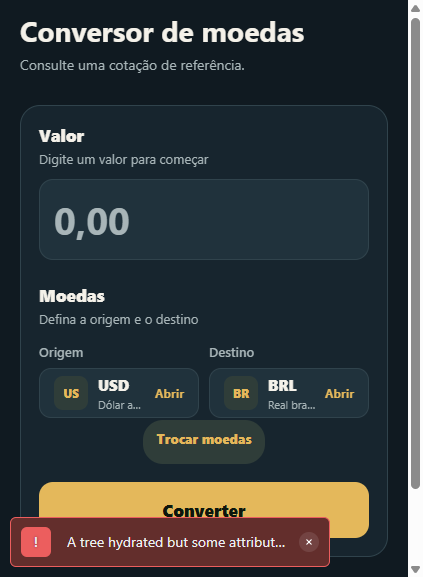
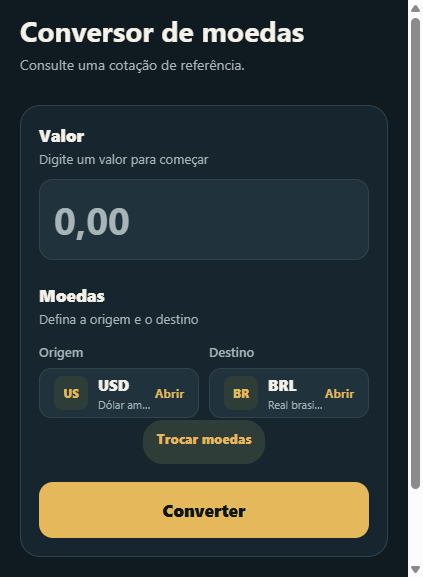
fix: remove aviso de hidratacao

Changed region(s): [[0.0, 0.8735, 0.7991, 0.9983], [0.7376, 0.6863, 0.7683, 0.7175], [0.3073, 0.6863, 0.3381, 0.7175]]

diff --git a/src/views/components/SeletorMoeda.tsx b/src/views/components/SeletorMoeda.tsx
@@ -125,7 +125,7 @@ const styles = StyleSheet.create({
     alignItems: 'center',
     justifyContent: 'space-between',
   },
-  valueContent: { flexDirection: 'row', alignItems: 'center', flex: 1 },
+  valueContent: { flexDirection: 'row', alignItems: 'center', flex: 1, gap: 10 },
   currencyMark: {
     width: 34,
     height: 34,
@@ -133,13 +133,12 @@ const styles = StyleSheet.create({
     backgroundColor: cores.destaqueSuave,
     alignItems: 'center',
     justifyContent: 'center',
-    marginRight: 10,
   },
   currencyMarkText: { color: cores.destaque, fontWeight: '800', fontSize: 12 },
   valueCopy: { flex: 1 },
   valueCode: { color: cores.texto, fontSize: 15, fontWeight: '800' },
   valueName: { color: cores.textoSuave, fontSize: 11, marginTop: 2 },
-  chevron: { color: cores.destaque, fontSize: 12, fontWeight: '700', marginLeft: 8 },
+  chevron: { color: cores.destaque, fontSize: 12, fontWeight: '700' },
   overlay: { flex: 1, backgroundColor: '#000000B8', justifyContent: 'flex-end' },
   modalCard: {
     maxHeight: '80%',
@@ -155,7 +154,7 @@ const styles = StyleSheet.create({
     marginBottom: 10,
   },
   modalTitle: { color: cores.texto, fontSize: 17, fontWeight: '700', flex: 1 },
-  close: { color: cores.destaque, fontWeight: '700', marginLeft: 12 },
+  close: { color: cores.destaque, fontWeight: '700' },
   search: {
     backgroundColor: cores.superficieElevada,
     borderRadius: 12,
@@ -166,7 +165,7 @@ const styles = StyleSheet.create({
   },
   option: { paddingVertical: 10, paddingHorizontal: 8, borderRadius: 10 },
   selectedOption: { backgroundColor: cores.destaqueSuave },
-  optionContent: { flexDirection: 'row', alignItems: 'center' },
+  optionContent: { flexDirection: 'row', alignItems: 'center', gap: 12 },
   codeBadge: {
     width: 40,
     height: 40,
@@ -174,7 +173,6 @@ const styles = StyleSheet.create({
     backgroundColor: cores.destaqueSuave,
     alignItems: 'center',
     justifyContent: 'center',
-    marginRight: 12,
   },
   codeText: { color: cores.destaque, fontWeight: '800' },
   optionCopy: { flex: 1 },

diff --git a/src/views/TelaConversor.tsx b/src/views/TelaConversor.tsx
@@ -156,8 +156,8 @@ const styles = StyleSheet.create({
   },
   inputError: { borderColor: cores.erro },
   validation: { color: cores.erro, fontSize: 13, marginTop: 6 },
-  loadingRow: { flexDirection: 'row', alignItems: 'center', marginTop: 16 },
-  loadingText: { marginLeft: 10, color: cores.textoSuave },
+  loadingRow: { flexDirection: 'row', alignItems: 'center', gap: 10, marginTop: 16 },
+  loadingText: { color: cores.textoSuave },
   swap: {
     alignSelf: 'center',
     minHeight: 44,
